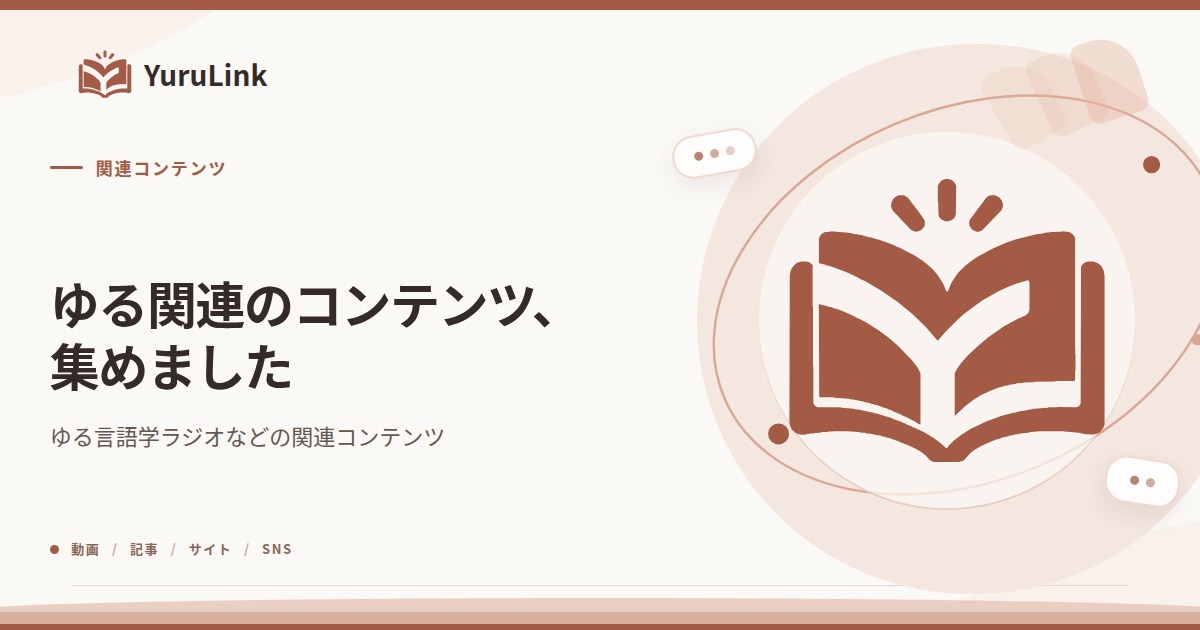
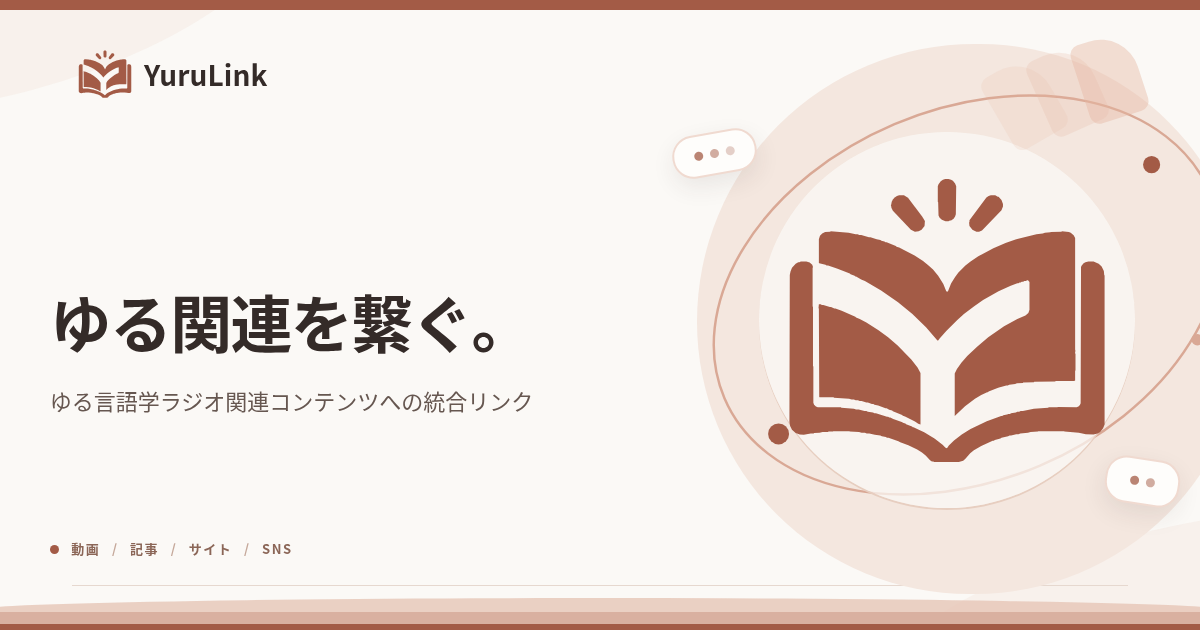
feat(ogp): publish HTML-rendered light OGP and brand theme metadata to staging

diff --git a/layouts/partials/head/meta.html b/layouts/partials/head/meta.html
@@ -9,6 +9,11 @@
 {{- $canonical := .Permalink -}}
 {{- if eq .Section "welcome" }}{{ $canonical = .Site.Home.Permalink }}{{ end }}
 <link rel="canonical" href="{{ $canonical }}">
+{{- $brandColor := .Site.Params.theme_color | default "#A35B46" -}}
+<meta name="theme-color" content="{{ $brandColor }}">
+<meta name="msapplication-TileColor" content="{{ $brandColor }}">
+<meta property="og:locale" content="ja_JP">
+<meta property="og:site_name" content="{{ .Site.Title }}">
 <meta property="og:type" content="{{ if .IsPage }}article{{ else }}website{{ end }}">
 <meta property="og:title" content="{{ $title }}">
 <meta property="og:description" content="{{ $description }}">
@@ -24,5 +29,6 @@
 <meta property="og:image:type" content="image/png">
 <meta property="og:image:width" content="1200">
 <meta property="og:image:height" content="630">
-<meta property="og:image:alt" content="YuruLink — 動画・プレイリスト・公式サイト・SNS">
+<meta property="og:image:alt" content="ゆる関連を繋ぐ。ゆる言語学ラジオ関連コンテンツへの統合リンク — YuruLink">
 <meta name="twitter:image" content="{{ $ogImage | absURL }}">
+<meta name="twitter:image:alt" content="ゆる関連を繋ぐ。ゆる言語学ラジオ関連コンテンツへの統合リンク — YuruLink">
